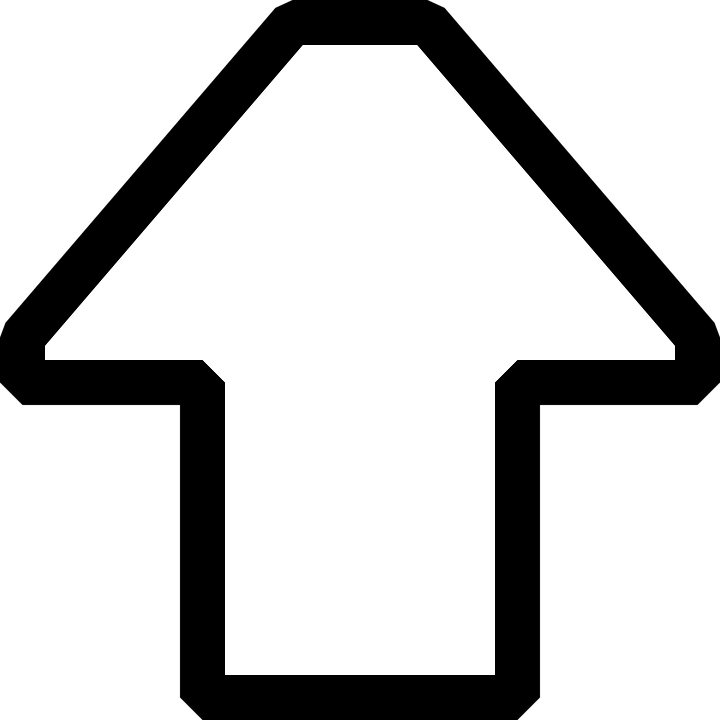
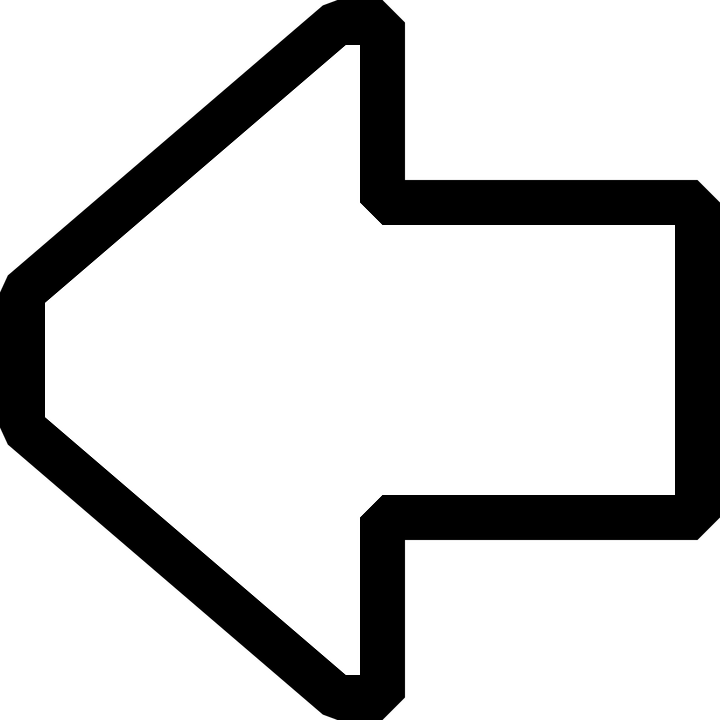
Added Arrow scaling

Changed region(s): [[0.0, 0.0, 1.0, 1.0], [0.2139, 0.1833, 0.2444, 0.2139], [0.1833, 0.2139, 0.2139, 0.2444]]

diff --git a/game.js b/game.js
@@ -46,19 +46,56 @@ function setupGame(){
         physics: { acc: {x:0,y:0}, spd: {x:0,y:0}, constForces: [], quiver: [] }
     }
     ball.draw = function(x, y) {
-        fillCircle(this.pos.x,this.pos.y,this.radius,this.color);
-
         if( paused ){
             var qvr = this.physics.quiver;
             for ( var i = 0; i < qvr.length; i++){
-                fillCircle(qvr[i].ray.x, qvr[i].ray.y, 20, makeColor(0,0,0,.25));
-                fillText("" + Math.floor(qvr[i].strength.abs + 0.5),
-                qvr[i].ray.x + 50, qvr[i].ray.y + 20, makeColor(1,1,1,.25), "50pt Arial");
+                drawArrow(this.pos, qvr[i].ray, 100, qvr[i].angle, qvr[i].strength.abs);
 
             }
         }
+
+        fillCircle(this.pos.x,this.pos.y,this.radius,this.color);
     }
     items.push(ball);
+}
+
+function drawArrow(source, ray, width, angle, strength){
+    var slope = (source.y - ray.y) / (source.x - ray.x);
+    var intercept = source.y - (slope * source.x);
+
+//    var xShift = 0;
+
+//    if( angle > Math.PI/2 && angle < 3*Math.PI/2){
+//        xShift = 50;
+//    } else if(angle > Math.PI/2 && angle < 3*Math.PI/2){
+//        xShift = -50;
+//    }
+
+//    var nx = ray.x + xShift;
+
+//    var ny = 50 + ray.y;
+//    if (nx != ray.x){
+//        ny = slope*nx + intercept;
+//    }else if ( angle > Math.PI){
+//        ny -= 100;
+//    }
+
+//TEMPORARY
+var xShift = 0;
+var yShift = -50;
+
+if(angle > Math.PI){
+    yShift = 90;
+    xShift = 20;
+}
+
+var nx = ray.x + xShift;
+var ny = ray.y + yShift;
+
+
+    fillText(Math.floor(strength), nx, ny, makeColor(0,0,0,1), "50pt Arial")
+    strokeLine(source.x, source.y, ray.x, ray.y, makeColor(0,0,0,1), 10)
+    drawTransformedImage(arrow, ray.x, ray.y, angle, 0.1, 0.1);
 }
 
 function onTouchStart(posX, posY, id){
@@ -144,11 +181,17 @@ function findAngle(ray, source){
     zeroMark = { x: -1, y: 0}
     newAngle = { x: ray.x - source.pos.x, y: ray.y - source.pos.y}
 
-    numerator = (zeroMark.x * zeroMark.y) + (newAngle.x * newAngle.y);
-    denomenator = Math.pow(zeroMark.x, 2) + Math.pow(zeroMark.y, 2)
-    denomenator *= Math.pow(newAngle.x, 2) + Math.pow(newAngle.y, 2)
-    preAngle = numerator / (Math.pow(denomenator, 0.5))
-    return Math.cos(preAngle);
+    preAngle = (((zeroMark.x * newAngle.x) + (zeroMark.y * newAngle.y)) /
+                (Math.pow((Math.pow(zeroMark.x, 2) + Math.pow(zeroMark.y, 2)), 0.5) *
+                 Math.pow((Math.pow(newAngle.x, 2) + Math.pow(newAngle.y, 2)), 0.5)) )
+
+    var angle = Math.acos(preAngle);
+
+    if( newAngle.y > 0){
+        angle = (2 * Math.PI) - angle
+    }
+
+    return angle;
 }
 
 function isWithin(testPos, item){
